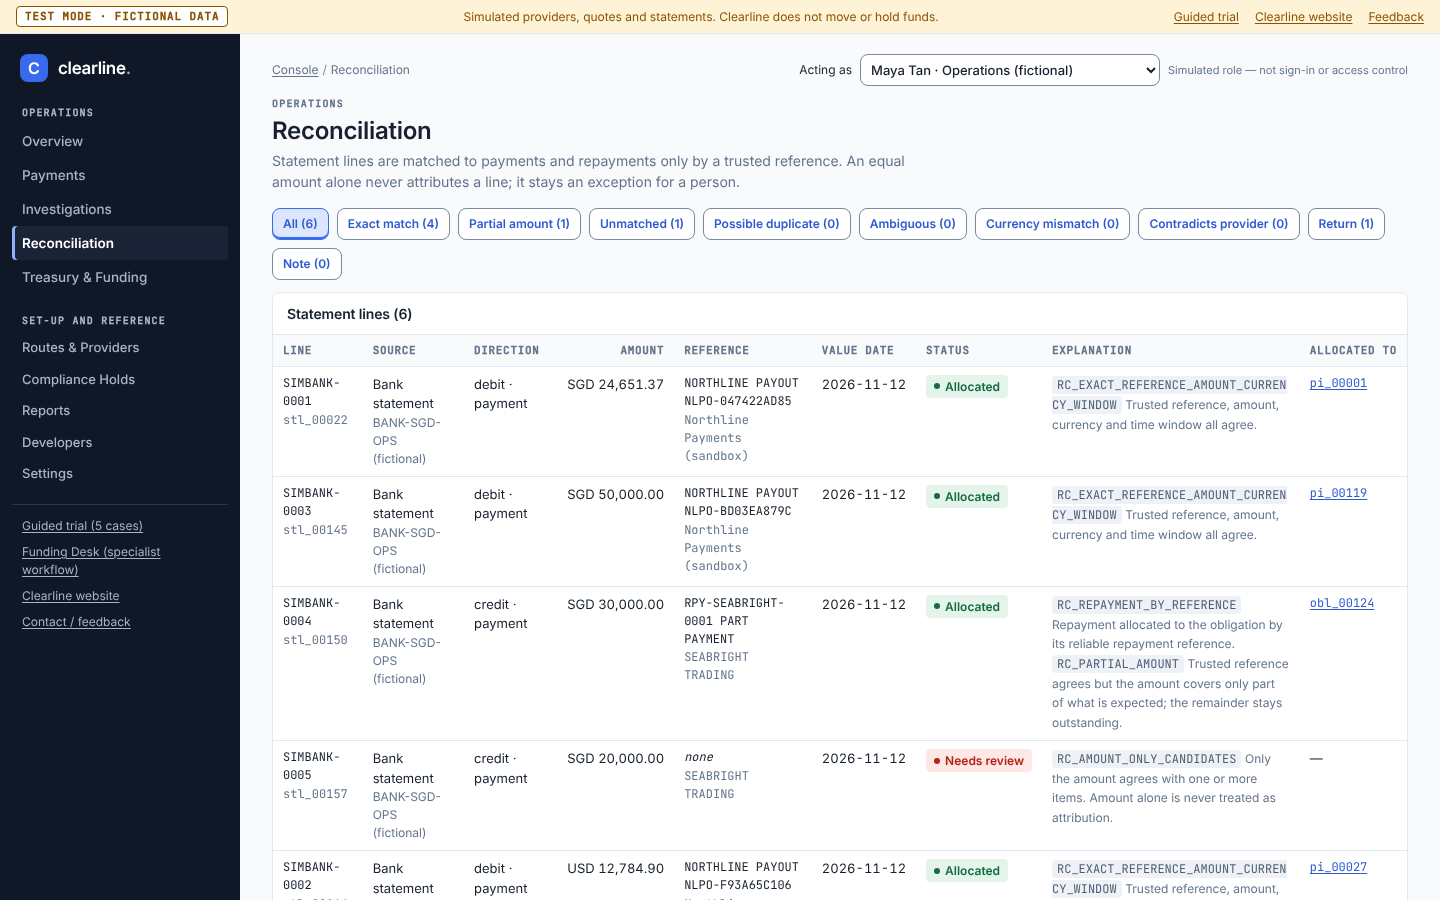
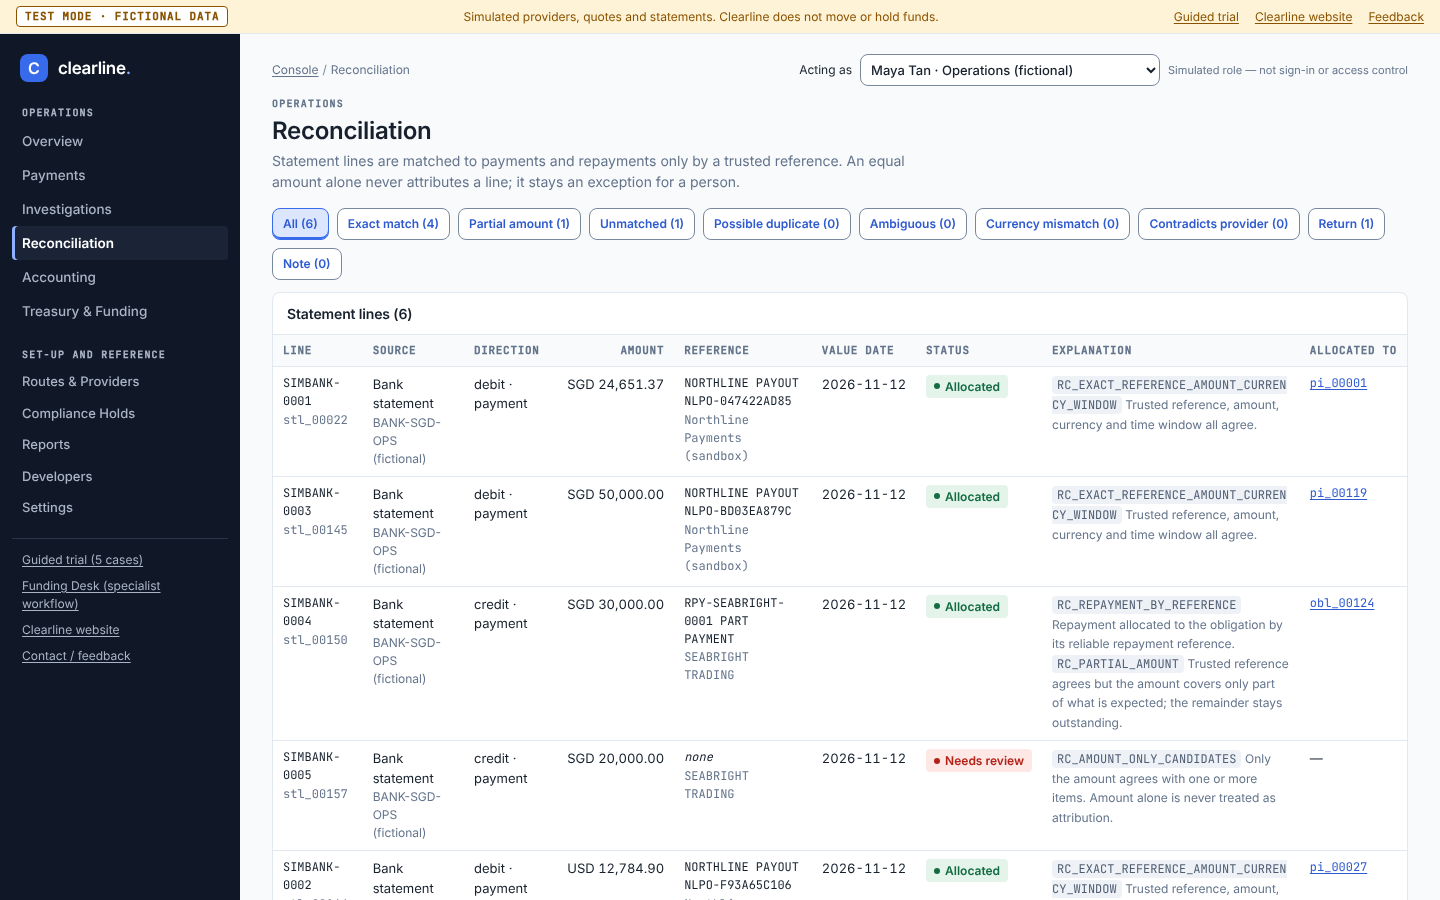
test(console), docs(trial): Accounting in the nav and page checks; screenshots regenerated with Accounting and Audit history
Nav expectation gains Accounting (Operations, after Reconciliation); breadcrumbs, overflow,
axe and primary-action checks cover the four new pages. Screenshots regenerated (the
desktop nav changed) plus accounting-* and audit-history-*. Trial checklist walks the
Accounting area and states that Clearline posts nothing.

Claude-Session: https://claude.ai/code/session_015s4Kk7vKgcSQ7csnYmEH5j

Changed region(s): [[0.0, 0.3422, 0.125, 0.7467], [0.0312, 0.28, 0.0938, 0.3111]]

diff --git a/tests/browser/clearline-console.spec.ts b/tests/browser/clearline-console.spec.ts
@@ -59,7 +59,7 @@ async function connectToSubmitted(page: Page, ref: string, outcome = "success") 
 
 const SCENARIOS = ["s1_success", "s2_returned", "s3_hold", "s4_chain", "s5_funding"] as const;
 const NAV_EXPECTED: Record<string, [string, string][]> = {
-  Operations: [["Overview", "/clearline"], ["Payments", "/clearline/payments"], ["Investigations", "/clearline/investigations"], ["Reconciliation", "/clearline/reconciliation"], ["Treasury & Funding", "/clearline/treasury"]],
+  Operations: [["Overview", "/clearline"], ["Payments", "/clearline/payments"], ["Investigations", "/clearline/investigations"], ["Reconciliation", "/clearline/reconciliation"], ["Accounting", "/clearline/accounting"], ["Treasury & Funding", "/clearline/treasury"]],
   "Set-up and reference": [["Routes & Providers", "/clearline/routes"], ["Compliance Holds", "/clearline/holds"], ["Reports", "/clearline/reports"], ["Developers", "/clearline/docs"], ["Settings", "/clearline/settings"]],
 };
 const REDIRECTS: Record<string, string> = {
@@ -115,6 +115,9 @@ test.describe("Clearline console", () => {
       ["/clearline/routes/activity", "ConsoleRoutes & ProvidersProvider activity"],
       ["/clearline/routes/new", "ConsoleRoutes & ProvidersNew payment intent"],
       ["/clearline/trial", "ConsoleGuided trial"],
+      ["/clearline/accounting/setup", "ConsoleAccountingPeriods and mapping"],
+      ["/clearline/accounting/exports", "ConsoleAccountingExports"],
+      ["/clearline/reports/audit", "ConsoleReportsAudit history"],
     ] as const) {
       await open(page, href);
       await expect(page.getByRole("navigation", { name: "Breadcrumb" })).toHaveText(crumbs);
@@ -368,7 +371,8 @@ test.describe("Clearline console", () => {
       await scenario(request, "s3_hold"), await scenario(request, "s4_chain"), await scenario(request, "s5_funding"),
       "/clearline/investigations", "/clearline/exceptions", "/clearline/routes/new", "/clearline/routes", "/clearline/routes/activity",
       "/clearline/docs", "/clearline/reconciliation", "/clearline/treasury", "/clearline/treasury/funding",
-      "/clearline/holds", "/clearline/reports", "/clearline/settings", "/clearline/trial"]) {
+      "/clearline/holds", "/clearline/reports", "/clearline/settings", "/clearline/trial",
+      "/clearline/accounting", "/clearline/accounting/setup", "/clearline/accounting/exports", "/clearline/reports/audit"]) {
       await open(page, path);
       await noHorizontalOverflow(page, path);
     }

diff --git a/tests/browser/clearline-journey.spec.ts b/tests/browser/clearline-journey.spec.ts
@@ -1181,6 +1181,7 @@ test("every visible primary action is known and has a meaningful result", async 
   const pages = ["/clearline", "/clearline/payments", "/clearline/investigations", "/clearline/exceptions", "/clearline/reconciliation",
     "/clearline/treasury", "/clearline/treasury/funding", "/clearline/routes", "/clearline/routes/activity", "/clearline/routes/new",
     "/clearline/holds", "/clearline/reports", "/clearline/settings", "/clearline/trial",
+    "/clearline/accounting", "/clearline/accounting/setup", "/clearline/accounting/exports", "/clearline/reports/audit",
     ...(await Promise.all(["s1_success", "s2_returned", "s3_hold", "s4_chain", "s5_funding"].map(async (s) => `/clearline/payments/${await scenarioId(request, s)}`)))];
   const unknown: string[] = [];
   for (const p of pages) {
@@ -1233,7 +1234,8 @@ test("the trial page keeps one whole-workspace reset, labelled as such, that res
 const ALL_PAGES = ["/clearline", "/clearline/payments", "s1_success", "s2_returned", "s3_hold", "s4_chain", "s5_funding",
   "/clearline/investigations", "/clearline/exceptions", "/clearline/reconciliation", "/clearline/treasury", "/clearline/treasury/funding",
   "/clearline/routes", "/clearline/routes/activity", "/clearline/routes/new", "/clearline/holds", "/clearline/reports",
-  "/clearline/docs", "/clearline/settings", "/clearline/trial"];
+  "/clearline/docs", "/clearline/settings", "/clearline/trial",
+  "/clearline/accounting", "/clearline/accounting/setup", "/clearline/accounting/exports", "/clearline/reports/audit"];
 const pathOf = async (request: APIRequestContext, p: string) => (p.startsWith("/") ? p : `/clearline/payments/${await scenarioId(request, p)}`);
 
 test("no horizontal page overflow on any console page at 320px, and axe finds no violations at 320 and 1024", async ({ page, request, isMobile }) => {

diff --git a/tests/browser/clearline-screens.spec.ts b/tests/browser/clearline-screens.spec.ts
@@ -9,6 +9,8 @@ const SHOTS: [string, string][] = [
   ["investigation-scenario2", "s2_returned"],
   ["reconciliation", "/clearline/reconciliation"],
   ["treasury-funding", "/clearline/treasury/funding"],
+  ["accounting", "/clearline/accounting"],
+  ["audit-history", "/clearline/reports/audit"],
   ["trial", "/clearline/trial"],
 ];
 

diff --git a/docs/trial/CUSTOMER_EVALUATION.md b/docs/trial/CUSTOMER_EVALUATION.md
@@ -22,6 +22,11 @@
 - Open liquidity and confirm restricted balances are subtracted from free cash, not presented as spendable.
 - Open Funding exposure: SGD 50,000.00 advanced, SGD 30,000.00 repaid by reference, SGD 20,000.00 outstanding; an
   unreferenced SGD 20,000.00 receipt stays an exception and does not close the balance.
+- Open **Accounting** (Operations, after Reconciliation): proposed journal entries from bank or final chain evidence only,
+  each balanced, with its evidence links. A returned payout reads "Supplier still unpaid — payable open"; the
+  unreferenced SGD 20,000.00 receipt gets no entry (amount-only match) and keeps its exception. Approve as a different
+  simulated person, export the journal file (CSV/JSON), then record the posting with the reference a person types.
+  Clearline posts nothing: "posted" is only that person's record, marked simulated. Then open Reports › Audit history.
 - Conclude on `/clearline/trial` with these questions: which exception is frequent; who owns it; what system is currently used; who would budget for a fix?
 
 ## Acceptable claims
@@ -30,7 +35,9 @@
 fields (execution, settlement evidence, reconciliation); fictional providers behind a typed adapter; signed sandbox
 webhooks with duplicate/out-of-order/contradiction handling; reference-based reconciliation with explained exceptions;
 liquidity with source and freshness; compliance holds that are never auto-released; Base Sepolia observation vs finality;
-a tested funding-exposure projection; a stateless test API (`/api/clearline/test/v1`) and OpenAPI document.
+a tested funding-exposure projection; an rc4 sandbox Accounting Bridge that proposes journal entries from evidence,
+needs a second person to approve, exports a generic CSV/JSON journal and records (never performs) a posting — its
+posting rules are not yet signed off by the founder and are under independent review; a stateless test API (`/api/clearline/test/v1`) and OpenAPI document.
 
 **Not built for live use:** licensed provider routing, real bank payout instructions, production keys, persistent multi-tenant server state, webhook delivery/retries, actual settlement attestations, compliance decisions, real chain data (the Base Sepolia evidence is synthetic), a shared production funding/Connect ledger, enterprise SSO, real financial data import to this new console.
 
